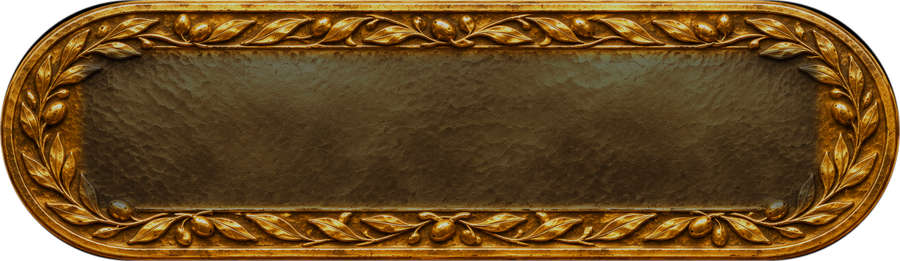
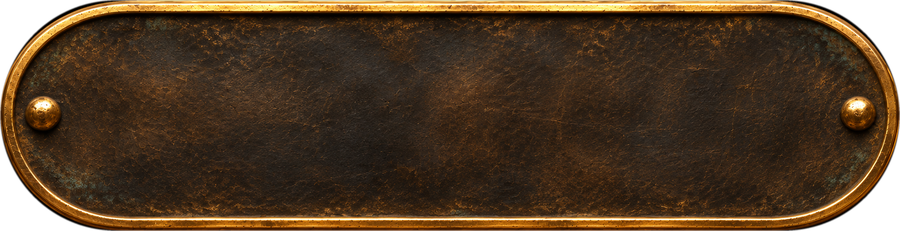
גופנים Suez One ו-David Libre, כפתור ברונזה מצויר, חדר המצפה מאחורי חלון ההוספה, אור חם מאחורי אריח פתוח

diff --git a/index.html b/index.html
@@ -6,14 +6,14 @@
 <title>מנהרת הזמן</title>
 <link rel="preconnect" href="https://fonts.googleapis.com">
 <link rel="preconnect" href="https://fonts.gstatic.com" crossorigin>
-<link rel="stylesheet" href="https://fonts.googleapis.com/css2?family=Frank+Ruhl+Libre:wght@500;900&family=Assistant:wght@400;600;700&display=swap">
+<link rel="stylesheet" href="https://fonts.googleapis.com/css2?family=Suez+One&family=David+Libre:wght@400;500;700&display=swap">
 <style>
 /* Layout: one full-screen WebGL stage in three acts (entrance hall, tunnel of golden tiles, a time space). Gilded type, one action row at the bottom, a glass card for adding a space. Single dark world by choice. */
 :root{
   --night:#060817; --gold:#e8b94a; --gold-hi:#ffe3a1; --gold-lo:#9a6a1a;
   --ink:#f7efdc; --mute:#b9b2d6; --glass:rgba(12,14,38,.8); --line:rgba(232,185,74,.45);
-  --display:'Frank Ruhl Libre','David','Times New Roman',serif;
-  --body:'Assistant','Segoe UI',Arial,sans-serif;
+  --display:'Suez One','David','Times New Roman',serif;
+  --body:'David Libre','David','Times New Roman',serif;
   --mono:ui-monospace,Consolas,'Courier New',monospace;
   color-scheme:dark;
 }
@@ -26,20 +26,21 @@ body{direction:rtl}
 .top{position:fixed;top:0;left:0;right:0;text-align:center;pointer-events:none;
   padding:calc(env(safe-area-inset-top,0px) + 20px) max(16px,env(safe-area-inset-right,0px)) 0 max(16px,env(safe-area-inset-left,0px));
   transition:opacity .8s}
-h1{font-family:var(--display);font-weight:900;font-size:clamp(34px,6vw,64px);line-height:1;margin:0;color:var(--gold-hi);
-  text-shadow:0 0 28px rgba(232,185,74,.6),0 2px 0 var(--gold-lo),0 0 3px rgba(0,0,0,.8);text-wrap:balance}
+h1{font-family:var(--display);font-weight:400;font-size:clamp(38px,6.5vw,72px);line-height:1.05;margin:0;letter-spacing:.01em;text-wrap:balance;
+  background:linear-gradient(180deg,#fff6d6 0%,#f0c868 45%,#b9821f 70%,#f3d27c 100%);-webkit-background-clip:text;background-clip:text;color:transparent;
+  filter:drop-shadow(0 2px 0 #4a2f06) drop-shadow(0 0 20px rgba(232,185,74,.45)) drop-shadow(0 0 4px rgba(0,0,0,.9))}
 .sub{margin:.5em auto 0;max-width:34em;font-size:clamp(15px,2vw,19px);line-height:1.45;color:var(--ink);text-shadow:0 1px 6px rgba(0,0,0,.9);text-wrap:balance}
-.spaceTitle{font-family:var(--display);font-weight:900;font-size:clamp(22px,3.4vw,36px);color:var(--gold-hi);text-shadow:0 0 18px rgba(232,185,74,.5),0 1px 6px rgba(0,0,0,.9);margin:0}
+.spaceTitle{font-family:var(--display);font-weight:400;font-size:clamp(22px,3.4vw,36px);color:var(--gold-hi);text-shadow:0 0 18px rgba(232,185,74,.5),0 1px 6px rgba(0,0,0,.9);margin:0}
 .bottom{position:fixed;left:0;right:0;bottom:0;display:flex;flex-wrap:wrap;justify-content:center;align-items:center;gap:10px;
   padding:0 max(16px,env(safe-area-inset-right,0px)) calc(env(safe-area-inset-bottom,0px) + 22px) max(16px,env(safe-area-inset-left,0px));
   pointer-events:none}
 .bottom > *{pointer-events:auto}
 button{font-family:var(--body);font-size:17px;cursor:pointer}
 .gold,.ghost{appearance:none;background:none;border-style:solid;border-color:transparent;border-width:0 32px;border-radius:0;
-  min-height:56px;box-sizing:border-box;padding:10px 8px 12px;font-family:var(--display);font-weight:900;font-size:18px;line-height:1.2;
+  min-height:56px;box-sizing:border-box;padding:10px 8px 12px;font-family:var(--display);font-weight:400;font-size:18px;line-height:1.2;
   transition:filter .2s, transform .2s}
 .gold{border-image:url(btn-gold.png) 0 150 fill / 0 32px / 0 stretch;color:#3a2200;text-shadow:0 1px 0 rgba(255,244,214,.7)}
-.ghost{border-image:url(btn-bronze.png) 0 150 fill / 0 32px / 0 stretch;color:var(--gold-hi);text-shadow:0 1px 3px rgba(0,0,0,.9)}
+.ghost{border-image:url(btn-bronze.png) 0 130 fill / 0 32px / 0 stretch;color:var(--gold-hi);text-shadow:0 1px 3px rgba(0,0,0,.9)}
 .gold:hover,.ghost:hover{filter:brightness(1.15);transform:translateY(-1px)}
 .gold:disabled,.ghost:disabled{filter:grayscale(.6) brightness(.75);cursor:default;transform:none}
 .ghost[aria-pressed="true"]{filter:brightness(1.25) saturate(1.2)}
@@ -52,12 +53,12 @@ button:focus-visible,.drop:focus-visible,summary:focus-visible,input:focus-visib
 .flash{position:fixed;inset:0;pointer-events:none;opacity:0;background:radial-gradient(circle at 50% 50%,#fffaf0 0,#ffe3a1 35%,#e8b94a 70%,#7a4f10 100%)}
 .panel{position:fixed;inset:0;overflow:auto;display:grid;place-items:center;
   padding:calc(env(safe-area-inset-top,0px) + 24px) max(16px,env(safe-area-inset-right,0px)) calc(env(safe-area-inset-bottom,0px) + 24px) max(16px,env(safe-area-inset-left,0px));
-  background:radial-gradient(ellipse at 50% 45%,rgba(6,8,23,.25),rgba(6,8,23,.78) 75%);backdrop-filter:blur(5px);-webkit-backdrop-filter:blur(5px);animation:panelIn .7s ease both}
+  background:radial-gradient(ellipse at 50% 50%,rgba(6,8,23,0) 35%,rgba(6,8,23,.6) 95%);animation:panelIn .7s ease both}
 @keyframes panelIn{from{opacity:0}to{opacity:1}}
 .card{width:min(580px,100%);box-sizing:border-box;border:2px solid #b8862f;border-radius:26px;padding:30px 28px;display:grid;gap:16px;
-  background:linear-gradient(180deg,rgba(16,11,4,.84),rgba(8,6,3,.92)),url(wall.jpg) center/520px;
+  background:linear-gradient(180deg,rgba(16,11,4,.8),rgba(8,6,3,.88)),url(wall.jpg) center/520px;
   box-shadow:inset 0 0 0 5px rgba(0,0,0,.35),inset 0 0 0 6px rgba(240,200,110,.5),inset 0 0 50px rgba(0,0,0,.6),0 30px 90px rgba(0,0,0,.7)}
-.card h2{font-family:var(--display);font-weight:900;font-size:clamp(26px,4vw,36px);line-height:1.1;margin:0;color:var(--gold-hi);text-wrap:balance;text-shadow:0 0 18px rgba(232,185,74,.45),0 2px 0 var(--gold-lo)}
+.card h2{font-family:var(--display);font-weight:400;font-size:clamp(26px,4vw,36px);line-height:1.1;margin:0;color:var(--gold-hi);text-wrap:balance;text-shadow:0 0 18px rgba(232,185,74,.45),0 2px 0 var(--gold-lo)}
 .card p{margin:0;font-size:17px;line-height:1.55}
 label{font-weight:700;font-size:16px;display:grid;gap:6px}
 input[type=text]{font-family:var(--body);font-size:17px;padding:11px 18px;border-radius:999px;border:1px solid rgba(232,185,74,.6);background:rgba(20,14,6,.75);color:var(--ink);box-shadow:inset 0 2px 6px rgba(0,0,0,.6)}
@@ -150,7 +151,7 @@ var TAU = Math.PI*2;
 /* state: entry | toGallery | gallery | toSpace | gate | space */
 var state = 'entry';
 var renderer, camera, gcam, clock, raycaster, pointer;
-var entryScene, galleryScene, spaceScene, entryMesh = null, spaceMesh = null;
+var entryScene, galleryScene, spaceScene, roomScene, roomMesh, entryMesh = null, spaceMesh = null;
 var yaw = 0, pitch = 0, tYaw = 0, tPitch = 0, fov = 72, autoSpin = false;
 var camZ = 1.2, tCamZ = 1.2, anim = null;
 var wallTex, sparks, exitDoor;
@@ -203,7 +204,7 @@ function makeGoldBase(){
   goldBase = c;
 }
 function engraveText(x, text, cx, cy, size, maxW){
-  x.font = '900 ' + size + 'px "Frank Ruhl Libre", David, serif'; x.textAlign = 'center'; x.textBaseline = 'middle'; x.direction = 'rtl';
+  x.font = size + 'px "Suez One", David, serif'; x.textAlign = 'center'; x.textBaseline = 'middle'; x.direction = 'rtl';
   var words = String(text).split(/\s+/), lines = [], line = '';
   words.forEach(function(w){ var test = line ? line + ' ' + w : w; if (x.measureText(test).width > maxW && line){ lines.push(line); line = w; } else line = test; });
   if (line) lines.push(line); lines = lines.slice(0, 2);
@@ -225,7 +226,7 @@ function tileTexture(kind, title){
     x.lineTo(px + w, py + h - 20); x.quadraticCurveTo(px + w, py + h, px + w - 20, py + h); x.lineTo(px + 20, py + h);
     x.quadraticCurveTo(px, py + h, px, py + h - 20); x.lineTo(px, py + 20); x.quadraticCurveTo(px, py, px + 20, py); x.fill(); x.restore();
     x.strokeStyle = 'rgba(240,200,110,.85)'; x.lineWidth = 4; x.strokeRect(px + 10, py + 10, w - 20, h - 20);
-    x.font = '900 52px "Frank Ruhl Libre", David, serif'; x.textAlign = 'center'; x.textBaseline = 'middle'; x.direction = 'rtl';
+    x.font = '52px "Suez One", David, serif'; x.textAlign = 'center'; x.textBaseline = 'middle'; x.direction = 'rtl';
     var t = label; while (x.measureText(t).width > w - 60 && t.length > 4) t = t.slice(0, -2);
     if (t !== label) t = t.replace(/\s+$/, '') + '...';
     var tg = x.createLinearGradient(0, py + 20, 0, py + h - 20); tg.addColorStop(0,'#fff0c2'); tg.addColorStop(1,'#d9a640');
@@ -288,8 +289,6 @@ function buildGallery(){
   wall.rotation.x = Math.PI/2; wall.position.set(0, 1.6, BACK - LEN/2); S.add(wall);
   var floor = new THREE.Mesh(new THREE.PlaneGeometry(6.2, LEN), floorMat());
   floor.rotation.x = -Math.PI/2; floor.position.set(0, 0, BACK - LEN/2); S.add(floor);
-  var lineMat = new THREE.MeshStandardMaterial({ color: '#e0b04a', metalness: 1, roughness: .25, emissive: '#5a3a08', emissiveIntensity: .6 });
-  [-.85, .85].forEach(function(x){ var ln = new THREE.Mesh(new THREE.PlaneGeometry(.045, LEN), lineMat); ln.rotation.x = -Math.PI/2; ln.position.set(x, .006, BACK - LEN/2); S.add(ln); });
   // the door you came through, closed behind you
   exitDoor = new THREE.Group(); exitDoor.position.set(0, 0, BACK - .05); exitDoor.rotation.y = Math.PI; S.add(exitDoor);
   var gateTex = new THREE.Texture(IMG.gate); gateTex.needsUpdate = true; gateTex.encoding = THREE.sRGBEncoding;
@@ -317,7 +316,10 @@ function makeTile(kind, item){
     tileGeo = new THREE.BoxGeometry(TILE, TILE, .06);
     tileGold = new THREE.MeshStandardMaterial({ color: '#d7a543', metalness: .95, roughness: .32 });
     tileBack = new THREE.MeshStandardMaterial({ color: '#1b1207', metalness: .5, roughness: .6 });
-    tileLight = new THREE.MeshBasicMaterial({ color: '#fff2cc' });
+    var lc = canvas(256,256), lx = lc.getContext('2d'), lg = lx.createRadialGradient(128,128,0,128,128,180);
+    lg.addColorStop(0,'#fff8e2'); lg.addColorStop(.45,'#f2c35c'); lg.addColorStop(1,'#5a3308'); lx.fillStyle = lg; lx.fillRect(0,0,256,256);
+    var lt = new THREE.CanvasTexture(lc); lt.encoding = THREE.sRGBEncoding;
+    tileLight = new THREE.MeshBasicMaterial({ map: lt, toneMapped: false });
     ringGeo = new THREE.TorusGeometry(.12, .018, 12, 40); bossGeo = new THREE.SphereGeometry(.035, 16, 12);
   }
   var g = new THREE.Group();
@@ -325,7 +327,7 @@ function makeTile(kind, item){
   var glowPlane = new THREE.Mesh(new THREE.PlaneGeometry(TILE*.96, TILE*.96), tileLight); glowPlane.position.z = -.035; glowPlane.visible = false; g.add(glowPlane);
   var pivot = new THREE.Group(); pivot.position.x = -TILE/2; g.add(pivot);
   var face = new THREE.MeshStandardMaterial({ map: tileTexture(kind, item ? item.title : ''), metalness: .45, roughness: .45, emissive: '#6a460e', emissiveIntensity: .3 });
-  var panel = new THREE.Mesh(tileGeo, [tileGold, tileGold, tileGold, tileGold, face, tileGold]); panel.position.x = TILE/2; pivot.add(panel);
+  var panel = new THREE.Mesh(tileGeo, [tileGold, tileGold, tileGold, tileGold, face, face]); panel.position.x = TILE/2; pivot.add(panel);
   var hinge = null;
   if (false){
     var boss = new THREE.Mesh(bossGeo, tileGold); boss.position.set(TILE/2, TILE*.15, .05); pivot.add(boss);
@@ -424,7 +426,10 @@ function runAnim(dt){
     u.open = ease((k - .25)/.45); u.pivot.rotation.y = -1.55*u.open; u.glow.visible = u.open > 0;
     yaw = tYaw = a.yaw0 + (a.yaw1 - a.yaw0)*ease(k*1.6); pitch = tPitch = a.pitch0 + (a.pitch1 - a.pitch0)*ease(k*1.6);
     var m = ease((k - .35)/.65); camera.position.lerpVectors(a.from, a.to, m); camZ = camera.position.z;
-    if (k >= 1){ anim = null; if (u.kind === 'plus') showGate(); else openSpace(u.item, u.kind === 'shared'); }
+    if (k >= 1){ anim = null;
+      if (u.kind !== 'plus') openSpace(u.item, u.kind === 'shared');
+      else if (reduce) showGate();
+      else { state = 'reveal'; anim = { t: 0, dur: 1.2, mix: 0, base: 'gallery', overScene: roomScene, overMesh: roomMesh, done: showGate }; } }
   }
 }
 function closeOpenTile(){
@@ -449,7 +454,7 @@ function openSpace(item, isShared){
     if (spaceMesh){ spaceScene.remove(spaceMesh); disposeMesh(spaceMesh); }
     spaceMesh = panoMesh(c); spaceScene.add(spaceMesh);
     $('panel').hidden = true; $('tip').hidden = true;
-    if (!reduce && (state === 'toSpace' || state === 'gate')){ state = 'reveal'; anim = { t: 0, dur: 1.1, mix: 0, done: finish }; return; }
+    if (!reduce && (state === 'toSpace' || state === 'gate')){ anim = { t: 0, dur: 1.1, mix: 0, base: state === 'gate' ? 'room' : 'gallery', overScene: spaceScene, overMesh: spaceMesh, done: finish }; state = 'reveal'; return; }
     finish();
   };
   var finish = function(){
@@ -469,6 +474,7 @@ function setSpin(on){ autoSpin = on; $('spin').setAttribute('aria-pressed', on ?
 
 /* ================= adding a space ================= */
 function showGate(){
+  var rm = roomMesh.material; rm.opacity = 1; rm.transparent = false;
   state = 'gate'; $('panel').hidden = false; showOnly(null); $('err').hidden = true; $('busy').hidden = true; $('spaceTop').hidden = true;
   $('saveNote').textContent = canShare ? 'המרחב יישמר במנהרה לכל מי שנכנס לקישור.' : 'המרחב יישמר רק במחשב שלכם, עד שתסגרו את הדף.';
   flashTo(0, 900); setTimeout(function(){ try { $('spaceTitle').focus({ preventScroll: true }); } catch(e){} }, 60);
@@ -628,6 +634,11 @@ function animateGallery(dt, t){
   });
   var f = galleryScene.getObjectByName('follow'); f.position.set(0, 2.3, camera.position.z - 1.2);
 }
+function roomYaw(t){ return reduce ? 0 : .07*Math.sin(t*.12); }
+function renderRoom(t){
+  gcam.aspect = camera.aspect; gcam.fov = 72; gcam.updateProjectionMatrix(); gcam.position.set(0, 1.6, 0); gcam.rotation.set(-.02, roomYaw(t), 0);
+  renderer.render(roomScene, gcam);
+}
 function tick(){
   requestAnimationFrame(tick);
   var dt = Math.min(clock.getDelta(), .05), t = clock.elapsedTime;
@@ -650,15 +661,16 @@ function tick(){
   else if (state === 'entry' || state === 'toGallery'){ camera.position.set(0, 1.6, 0); renderer.render(entryScene, camera); }
   else if (state === 'gallery' || state === 'toSpace'){ animateGallery(dt, t); renderer.render(galleryScene, camera); }
   else if (state === 'reveal' && anim){
-    // the time space dissolves in over the open tile
-    animateGallery(dt, t); renderer.render(galleryScene, camera);
-    var sm = spaceMesh.material; sm.transparent = true; sm.opacity = anim.mix;
-    var sb = spaceScene.background; spaceScene.background = null;
-    gcam.aspect = camera.aspect; gcam.fov = 72; gcam.updateProjectionMatrix(); gcam.position.set(0, 1.6, 0); gcam.rotation.set(0, 0, 0);
-    renderer.autoClear = false; renderer.clearDepth(); renderer.render(spaceScene, gcam); renderer.autoClear = true;
-    spaceScene.background = sb;
+    // the next place dissolves in over the open tile
+    if (anim.base === 'room') renderRoom(t); else { animateGallery(dt, t); renderer.render(galleryScene, camera); }
+    var om = anim.overMesh.material; om.transparent = true; om.opacity = anim.mix;
+    var sb = anim.overScene.background; anim.overScene.background = null;
+    gcam.aspect = camera.aspect; gcam.fov = 72; gcam.updateProjectionMatrix(); gcam.position.set(0, 1.6, 0);
+    gcam.rotation.set(0, anim.overScene === roomScene ? roomYaw(t) : 0, 0);
+    renderer.autoClear = false; renderer.clearDepth(); renderer.render(anim.overScene, gcam); renderer.autoClear = true;
+    anim.overScene.background = sb;
   }
-  else if (state === 'gate'){ animateGallery(dt, t); renderer.render(galleryScene, camera); }
+  else if (state === 'gate') renderRoom(t);
   else renderer.render(spaceScene, camera);
 }
 
@@ -674,9 +686,10 @@ function start(){
   spaceScene = new THREE.Scene(); spaceScene.background = new THREE.Color('#060817');
   resize(); window.addEventListener('resize', resize);
   bindControls(); bindUI(); connectShared();
-  var fontsReady = (document.fonts && document.fonts.load) ? Promise.all([document.fonts.load('900 40px "Frank Ruhl Libre"'), document.fonts.ready]).catch(function(){}) : Promise.resolve();
-  Promise.all([loadImage('entrance.jpg'), loadImage('tile.jpg'), loadImage('tile-add.jpg'), loadImage('wall.jpg'), loadImage('gate-back.png'), fontsReady]).then(function(r){
+  var fontsReady = (document.fonts && document.fonts.load) ? Promise.all([document.fonts.load('40px "Suez One"'), document.fonts.ready]).catch(function(){}) : Promise.resolve();
+  Promise.all([loadImage('entrance.jpg'), loadImage('tile.jpg'), loadImage('tile-add.jpg'), loadImage('wall.jpg'), loadImage('gate-back.png'), loadImage('room.jpg'), fontsReady]).then(function(r){
     IMG.tile = r[1]; IMG.tileAdd = r[2]; IMG.wall = r[3]; IMG.gate = r[4];
+    roomScene = new THREE.Scene(); roomScene.background = new THREE.Color('#060817'); roomMesh = panoMesh(toPanoCanvas(r[5], false)); roomScene.add(roomMesh);
     buildEntry(r[0]); buildGallery(); rebuildTiles();
     pitch = tPitch = .05; setFov(80); requestAnimationFrame(tick);
     var l = $('loader'); l.style.opacity = 0; setTimeout(function(){ l.hidden = true; }, 850);
